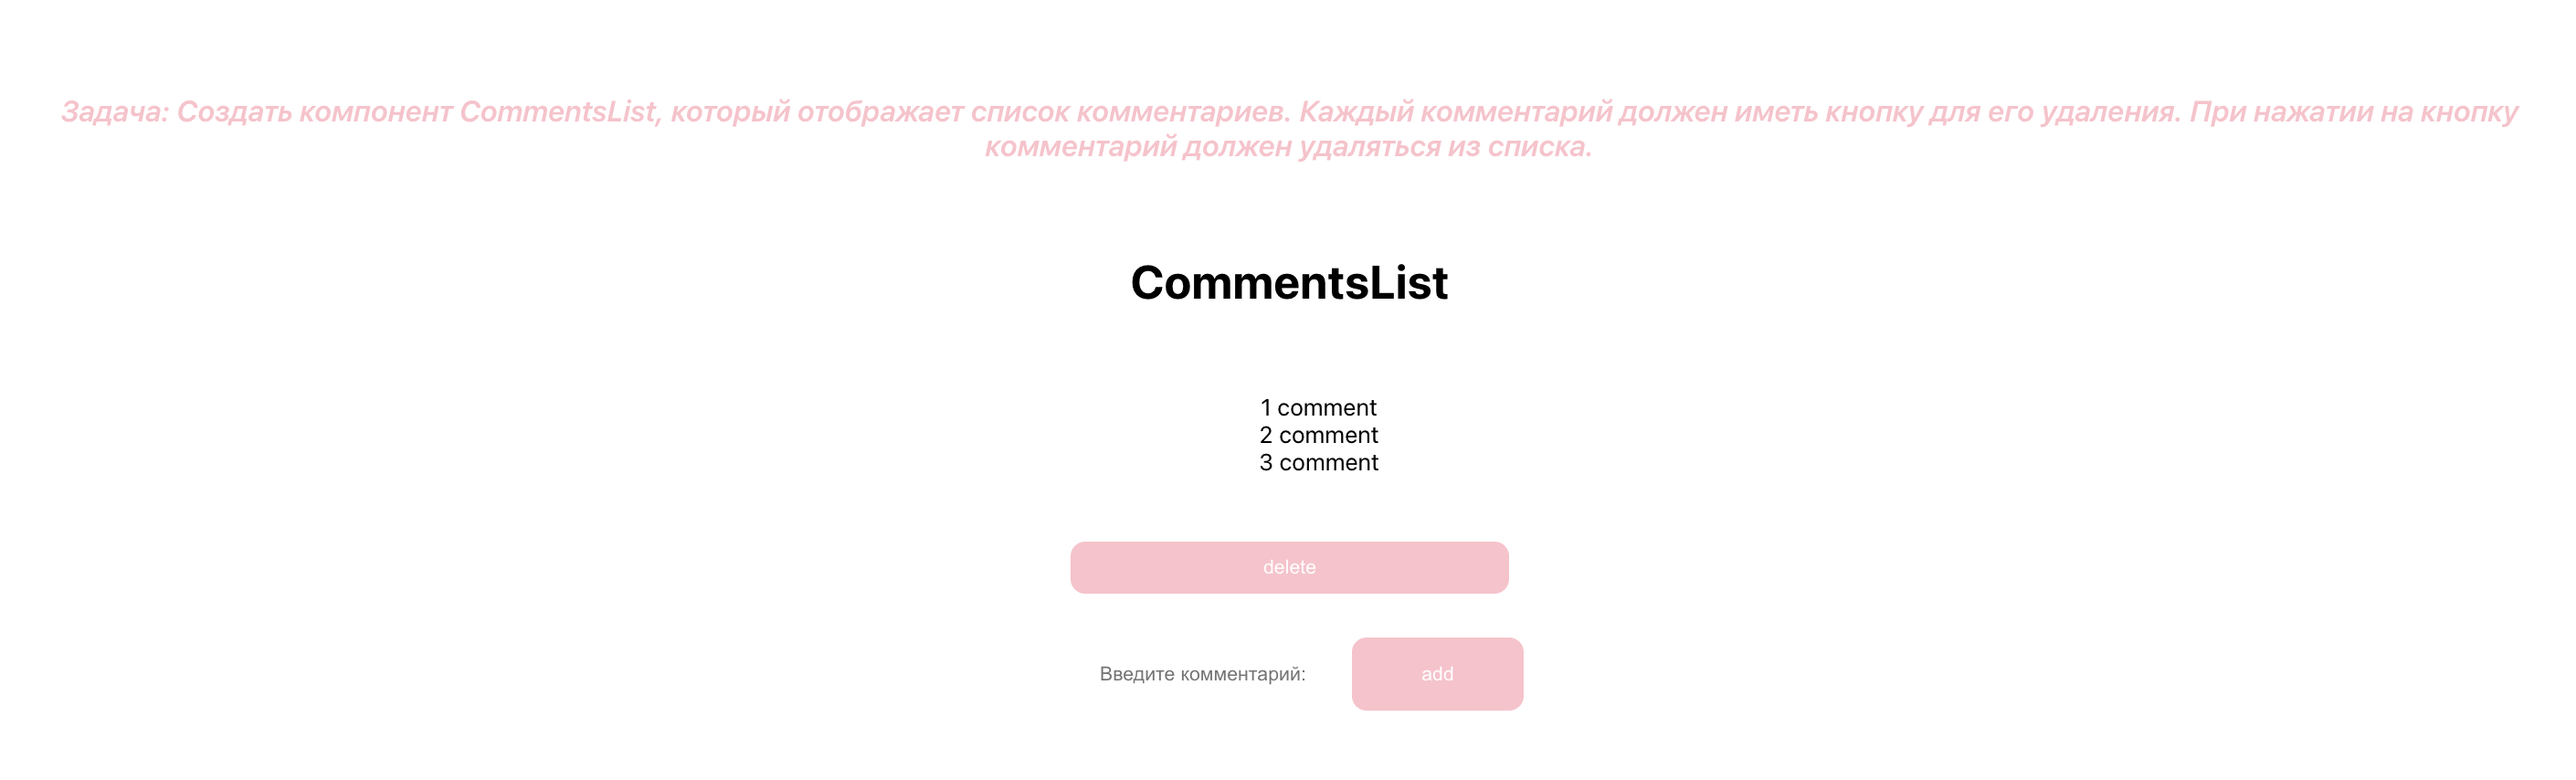
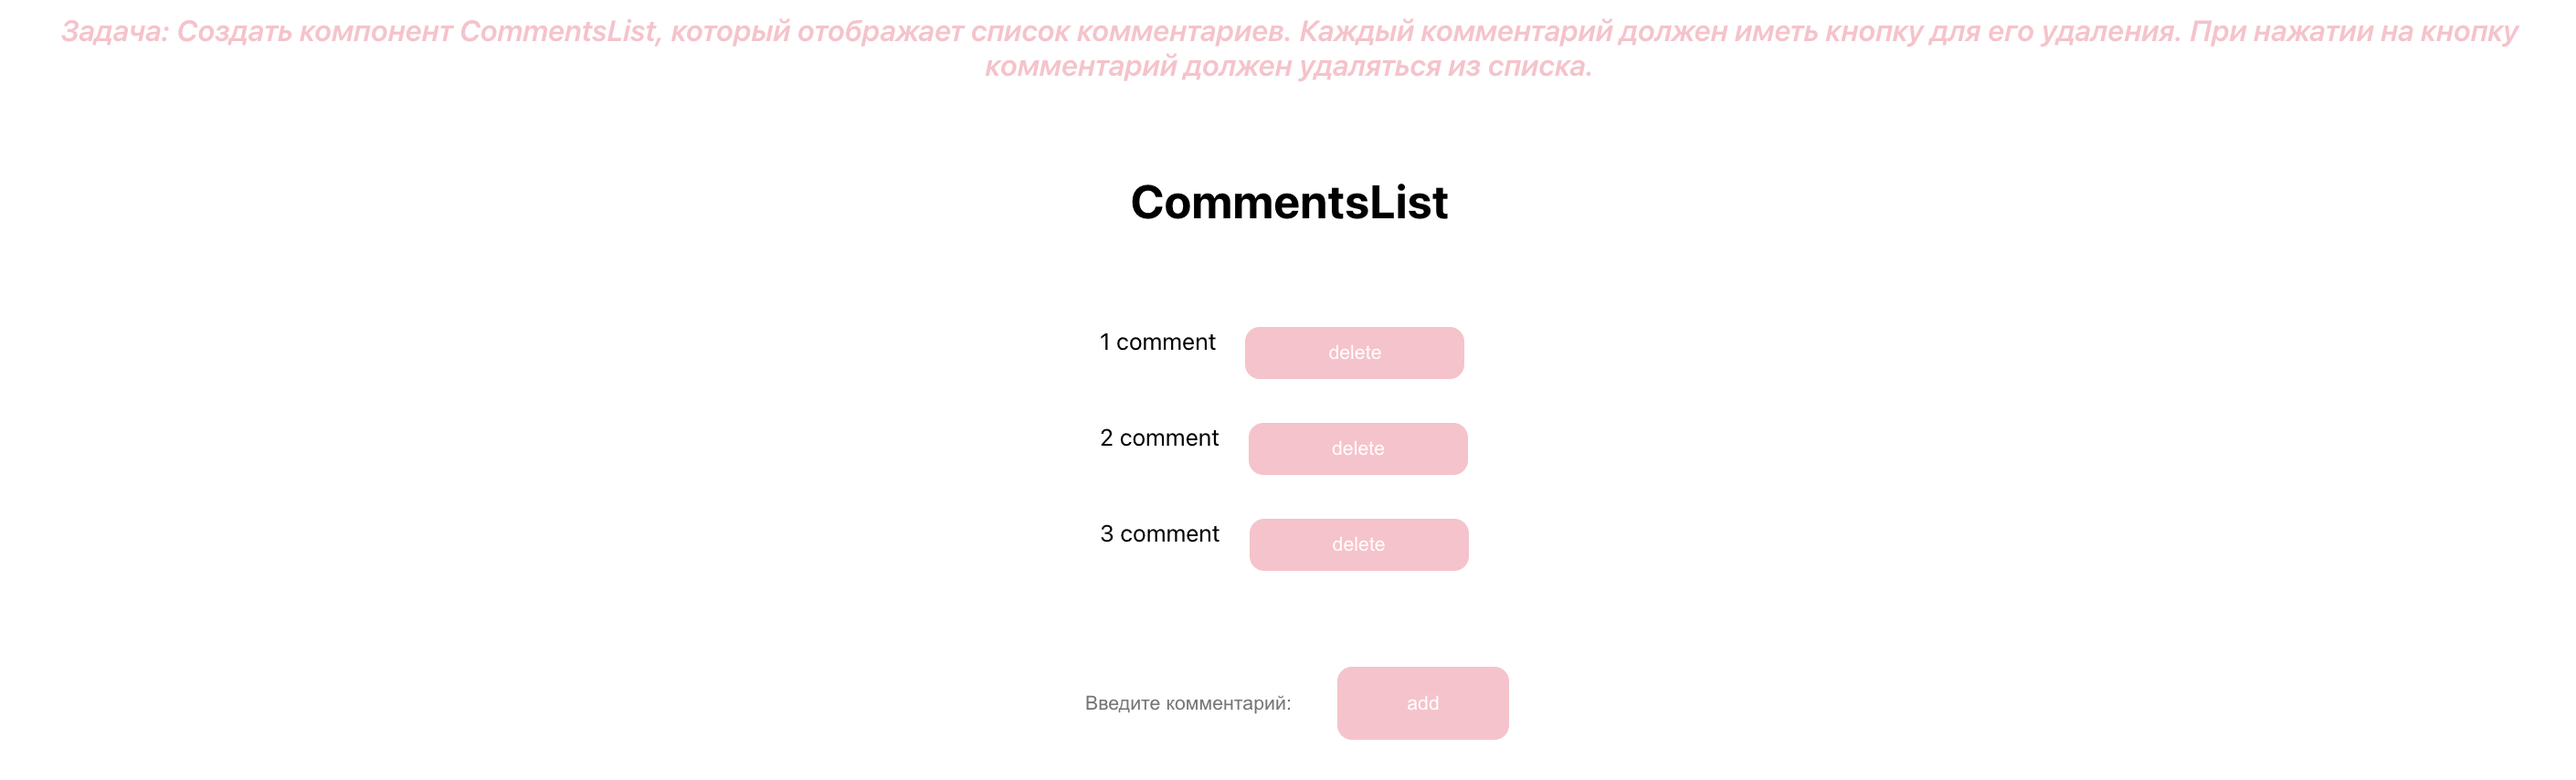
2.3

diff --git a/lesson2/less2/src/components/CommentsList/CommentsList.js b/lesson2/less2/src/components/CommentsList/CommentsList.js
@@ -29,21 +29,22 @@ function CommentsList() {
         <ul className="ul-list">
             {
                 CommentList.map((item, index) => {
-                    return <li key={index}>{item}</li>
+                    return <div className="user">
+                        <li key={index}>{item}</li>
+                        <button className="btn" onClick={() => deleteItem(index)}>delete</button>
+                    </div>
+
                 })
             }
         </ul>
-        <div className="user">
-            <button onClick={deleteItem}>delete</button>
-            <form className="add-comment">
-                <input
-                    type="text"
-                    placeholder="Введите комментарий: "
-                    value={value}
-                    onChange={updateCommentList}
-                    maxLength={10} />
-                <button className="btn" onClick={addItem}>add</button></form>
-        </div>
+        <form className="add-comment">
+            <input
+                type="text"
+                placeholder="Введите комментарий: "
+                value={value}
+                onChange={updateCommentList}
+                maxLength={10} />
+            <button className="btn" onClick={addItem}>add</button></form>
     </div>);
 }
 

diff --git a/lesson2/less2/src/components/CommentsList/CommentsList.css b/lesson2/less2/src/components/CommentsList/CommentsList.css
@@ -15,7 +15,7 @@ ul {
 
 .user {
     display: flex;
-    flex-direction: column;
+    flex-direction: row;
     gap: 20px;
     width: 300px;
     margin: 0 auto;
